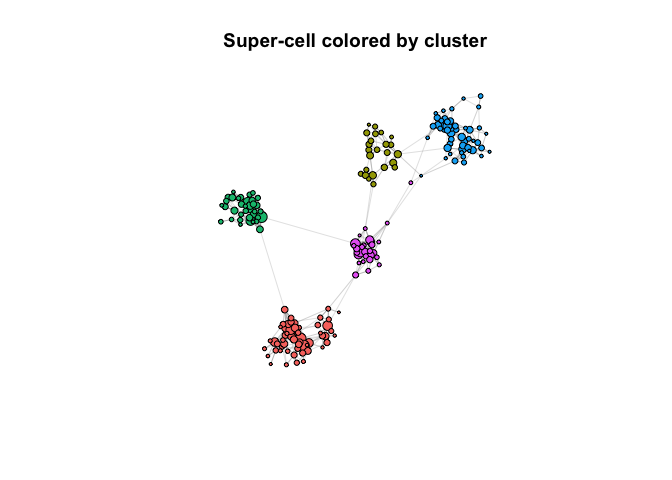
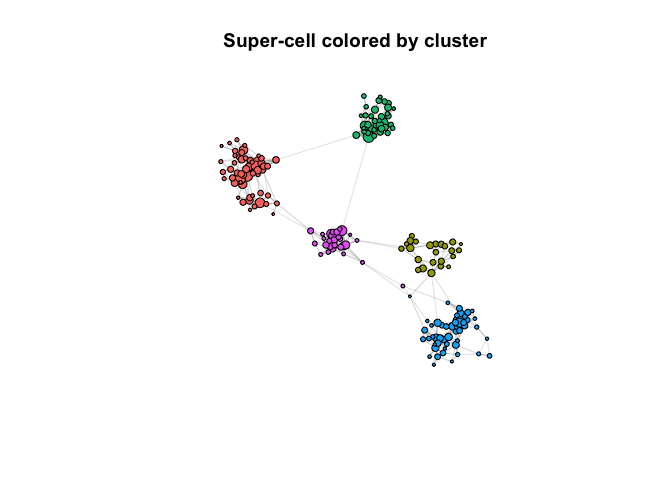
readme rotation

diff --git a/README.md b/README.md
@@ -58,10 +58,25 @@ dim(SC.GE)
 SC2cellline  <- supercell_assign(cell.meta, SC$membership)
 SC$cell_line <- SC2cellline
 
+
 p <- supercell_plot(SC$graph.supercells, group = SC$cell_line, seed = 1, main = "Super-cell colored by cell line assignment")
 ```
 
 ![](figures/unnamed-chunk-5-1.png)
+
+``` r
+lay <- p$lay
+
+
+## rotate network to be consistent with single-cell one
+alpha <- -pi/2
+M.rotation  <- matrix(c(cos(alpha), sin(alpha),
+                        -sin(alpha), cos(alpha)), byrow = T, ncol = 2)
+lay.rotated <- lay %*% M.rotation
+p <- supercell_plot(SC$graph.supercells, group = SC$cell_line, seed = 1, main = "Super-cell colored by cell line assignment", lay = lay.rotated)
+```
+
+![](figures/unnamed-chunk-5-2.png)
 
 Cluster super-cell data
 -----------------------
@@ -80,7 +95,7 @@ Map clusters of super-cells to celll lines
 ``` r
 map.cluster.to.cell.line    <- supercell_assign(supercell_membership = SC$clustering, clusters  = SC$cell_line)
 SC$clustering_reordered     <- map.cluster.to.cell.line[SC$clustering]
-p <- supercell_plot(SC$graph.supercells, group = SC$clustering_reordered, seed = 1, main = "Super-cell colored by cluster")
+p <- supercell_plot(SC$graph.supercells, group = SC$clustering_reordered, seed = 1, main = "Super-cell colored by cluster", lay = lay.rotated)
 ```
 
 ![](figures/unnamed-chunk-7-1.png)
